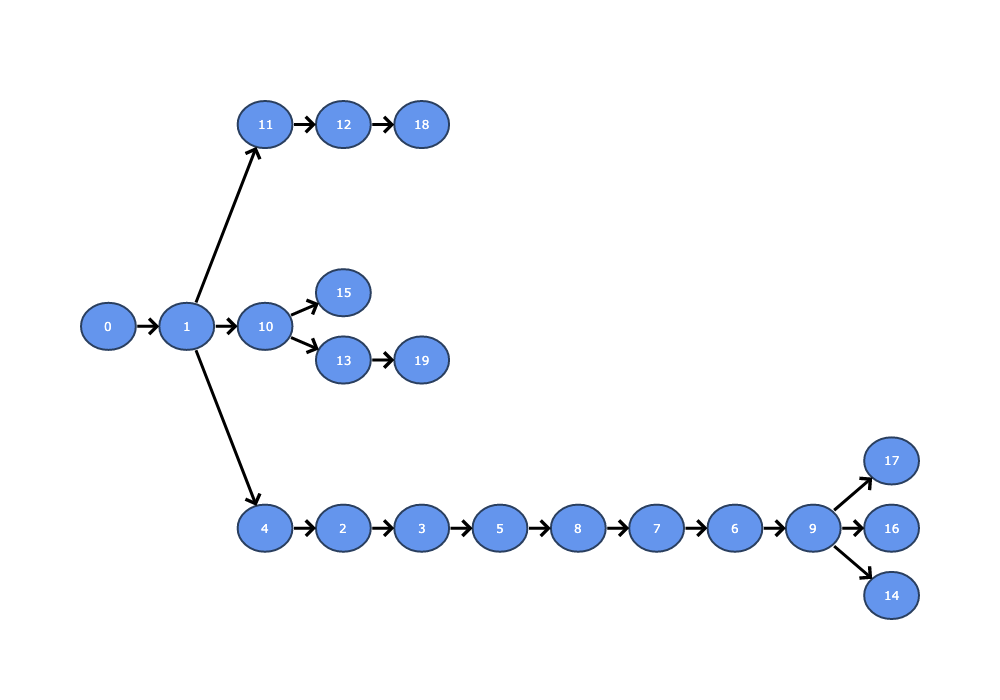
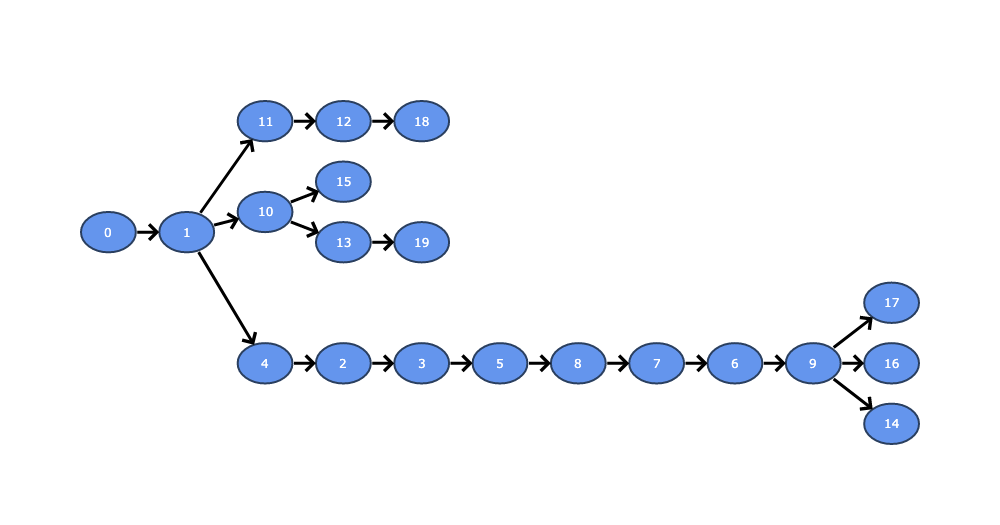
fixed bottom-up setting x,y-coord

Changed region(s): [[0.062, 0.1219, 0.93, 0.8838]]

diff --git a/build/lib/treeplot/TreePlot.py b/build/lib/treeplot/TreePlot.py
@@ -37,7 +37,7 @@ class TreePlot():
 
     def set_ys_bottomup(self):
         for leaf in self.tree.leaves:
-            leaf.set_y(float(self.tree.leaf2ord[leaf.id] * self.node_size))
+            leaf.set_y(float(self.tree.leaf2ord[leaf.id] * self.node_size * 3))
         for node in self.tree.postorder_traversal():
             parent = node.parent
             y = 0

diff --git a/treeplot/TreePlot.py b/treeplot/TreePlot.py
@@ -37,7 +37,7 @@ class TreePlot():
 
     def set_ys_bottomup(self):
         for leaf in self.tree.leaves:
-            leaf.set_y(float(self.tree.leaf2ord[leaf.id] * self.node_size))
+            leaf.set_y(float(self.tree.leaf2ord[leaf.id] * self.node_size * 3))
         for node in self.tree.postorder_traversal():
             parent = node.parent
             y = 0

diff --git a/bin/test.py b/bin/test.py
@@ -19,7 +19,8 @@ for i in range(len(parent_vec)):
     #print(node.children_ordered)
 
 
-treeplot = TreePlot(p2, orientation='h')
+treeplot = TreePlot(p2, orientation='h', top_down=False)
+print(treeplot.pos)
 treeplot.plot(show=True, arrows=True)
 treeplot.save_fig('test_tree.png')
 
